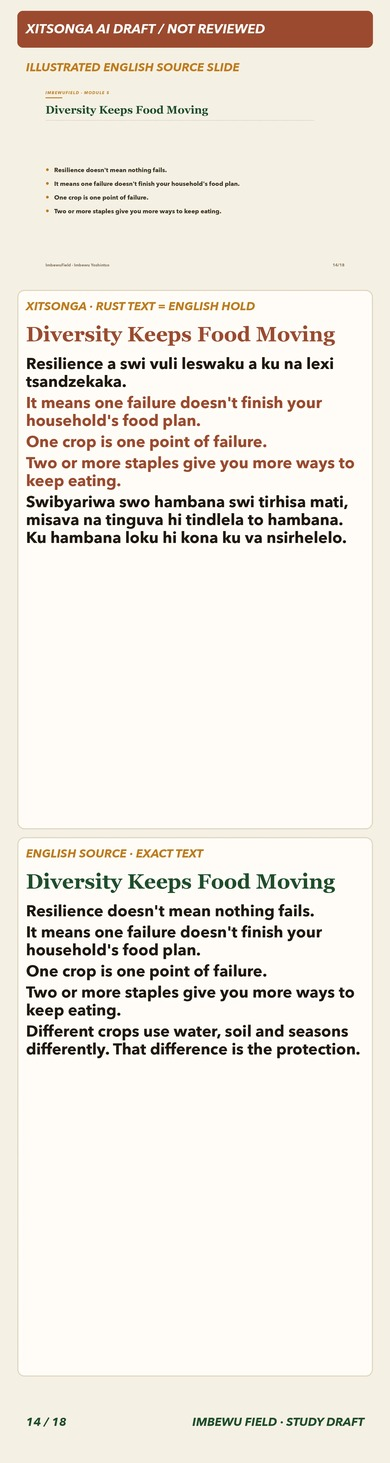
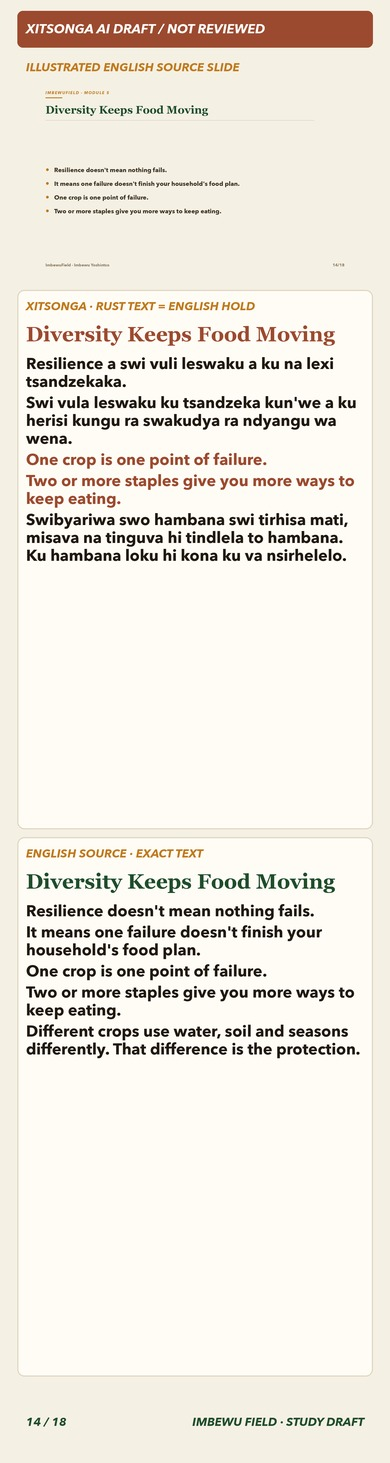
Pair regional Study resilience, water and seed-sharing drafts

Changed region(s): [[0.0615, 0.2461, 0.9231, 0.3999], [0.8615, 0.2461, 0.8923, 0.2768]]

diff --git a/lib/course-translation-drafts-ve-water-harvesting.ts b/lib/course-translation-drafts-ve-water-harvesting.ts
@@ -152,8 +152,8 @@ export const TSHIVENDA_WATER_HARVESTING_DRAFT: TshivendaCourseModuleDraft = {
       },
       body: {
         sourceEnglish: "A dam or pond can store runoff, but the amount available depends on local rain, the catchment, losses and how much water you use.\n\nRainfall seasons differ across South Africa. Use local records and plan for dry periods; a full dam is not guaranteed.\n\nBefore changing a watercourse or building storage works, check the required authorisation with the water authority.\n\nA dam needs a site investigation and a design by a suitably qualified person. Catchment runoff, soil, foundations, downstream risk and a safe spillway all matter.\n\nDo not assume that annual rainfall tells you the size of a flood or the storage you will have.\n\nAn uncontrolled overflow can erode and breach the wall. Plan a safe route for excess water before construction.\n\nWater can be lost through evaporation and seepage. Check the water level and look for leaks or erosion.\n\nKeep the spillway clear and maintain the bank cover specified in the design. Do not plant trees on an earth dam wall.\n\nAnimals can damage banks and add manure to the water. Their presence does not make the water clean or safe.",
-        tshivendaDraft: "A dam or pond can store runoff, but the amount available depends on local rain, the catchment, losses and how much water you use.\n\nRainfall seasons differ across South Africa. Use local records and plan for dry periods; a full dam is not guaranteed.\n\nBefore changing a watercourse or building storage works, check the required authorisation with the water authority.\n\nA dam needs a site investigation and a design by a suitably qualified person. Catchment runoff, soil, foundations, downstream risk and a safe spillway all matter.\n\nDo not assume that annual rainfall tells you the size of a flood or the storage you will have.\n\nAn uncontrolled overflow can erode and breach the wall. Plan a safe route for excess water before construction.\n\nWater can be lost through evaporation and seepage. Check the water level and look for leaks or erosion.\n\nKeep the spillway clear and maintain the bank cover specified in the design. Do not plant trees on an earth dam wall.\n\nAnimals can damage banks and add manure to the water. Their presence does not make the water clean or safe.",
-        reviewStatus: "hold"
+        tshivendaDraft: "A dam or pond can store runoff, but the amount available depends on local rain, the catchment, losses and how much water you use.\n\nTshifhinga tsha mvula tshi a fhambana u mona na Afurika Tshipembe. Use local records and plan for dry periods; a full dam is not guaranteed.\n\nBefore changing a watercourse or building storage works, check the required authorisation with the water authority.\n\nA dam needs a site investigation and a design by a suitably qualified person. Catchment runoff, soil, foundations, downstream risk and a safe spillway all matter.\n\nDo not assume that annual rainfall tells you the size of a flood or the storage you will have.\n\nAn uncontrolled overflow can erode and breach the wall. Plan a safe route for excess water before construction.\n\nWater can be lost through evaporation and seepage. Check the water level and look for leaks or erosion.\n\nKeep the spillway clear and maintain the bank cover specified in the design. Do not plant trees on an earth dam wall.\n\nAnimals can damage banks and add manure to the water. Their presence does not make the water clean or safe.",
+        reviewStatus: "machine-draft"
       },
       keyPoints: [
         {
@@ -264,8 +264,8 @@ export const TSHIVENDA_WATER_HARVESTING_DRAFT: TshivendaCourseModuleDraft = {
       },
       body: {
         sourceEnglish: "Your roof can collect rainwater. The amount depends on roof area, rainfall and losses.\n\nCheck whether the roof material is suitable for rainwater collection before connecting a tank.\n\nUse the roof area seen from above and local rainfall records. Then allow for water that misses the gutter, is diverted or overflows a full tank.\n\nAn annual total does not tell you how much water will be available during a dry spell. Compare supply with the uses you plan.\n\nRoof runoff can carry dust, droppings and other contamination. A first-flush diverter keeps some of the first runoff out of the tank.\n\nThe required diversion depends on the roof and system. Use the supplier's sizing and maintenance instructions; there is no single volume for every roof.\n\nA diverter does not make the remaining water safe to drink.\n\nTank size depends on water demand, rain, roof area and the length of dry periods.\n\nList the intended uses and estimate their demand from your own records. Compare that with supply through the seasons.\n\nPlan what you will do when stored water runs low. A province name alone cannot tell you the tank size you need.\n\nKeep the tank covered, screen openings against insects, and maintain the roof, gutters and diverter. Keep rainwater separate from drinking-water pipes.\n\nWater that looks clear may still contain germs or chemicals. Ask the local health authority about testing and treatment suited to the intended use.\n\nA basic filter alone is not a drinking-water guarantee. Water used on food crops also needs a safety assessment.",
-        tshivendaDraft: "Your roof can collect rainwater. The amount depends on roof area, rainfall and losses.\n\nCheck whether the roof material is suitable for rainwater collection before connecting a tank.\n\nUse the roof area seen from above and local rainfall records. Then allow for water that misses the gutter, is diverted or overflows a full tank.\n\nAn annual total does not tell you how much water will be available during a dry spell. Compare supply with the uses you plan.\n\nRoof runoff can carry dust, droppings and other contamination. A first-flush diverter keeps some of the first runoff out of the tank.\n\nThe required diversion depends on the roof and system. Use the supplier's sizing and maintenance instructions; there is no single volume for every roof.\n\nA diverter does not make the remaining water safe to drink.\n\nTank size depends on water demand, rain, roof area and the length of dry periods.\n\nList the intended uses and estimate their demand from your own records. Compare that with supply through the seasons.\n\nPlan what you will do when stored water runs low. A province name alone cannot tell you the tank size you need.\n\nKeep the tank covered, screen openings against insects, and maintain the roof, gutters and diverter. Keep rainwater separate from drinking-water pipes.\n\nWater that looks clear may still contain germs or chemicals. Ask the local health authority about testing and treatment suited to the intended use.\n\nA basic filter alone is not a drinking-water guarantee. Water used on food crops also needs a safety assessment.",
-        reviewStatus: "hold"
+        tshivendaDraft: "Ṱhanga ya ṋu i nga kuvhanganya madi a mvula. Madi ane a wanala a bva kha vhuhulwane ha ṱhanga, mvula na madi a xelaho.\n\nCheck whether the roof material is suitable for rainwater collection before connecting a tank.\n\nUse the roof area seen from above and local rainfall records. Then allow for water that misses the gutter, is diverted or overflows a full tank.\n\nTshivhalo tsha ṅwaha woṱhe a tshi ni vhudzi uri hu ḓo vha na madi mangana nga tshifhinga tsha gomelelo. Compare supply with the uses you plan.\n\nRoof runoff can carry dust, droppings and other contamination. A first-flush diverter keeps some of the first runoff out of the tank.\n\nThe required diversion depends on the roof and system. Use the supplier's sizing and maintenance instructions; there is no single volume for every roof.\n\nA diverter does not make the remaining water safe to drink.\n\nTank size depends on water demand, rain, roof area and the length of dry periods.\n\nList the intended uses and estimate their demand from your own records. Compare that with supply through the seasons.\n\nPlan what you will do when stored water runs low. A province name alone cannot tell you the tank size you need.\n\nKeep the tank covered, screen openings against insects, and maintain the roof, gutters and diverter. Keep rainwater separate from drinking-water pipes.\n\nWater that looks clear may still contain germs or chemicals. Ask the local health authority about testing and treatment suited to the intended use.\n\nA basic filter alone is not a drinking-water guarantee. Water used on food crops also needs a safety assessment.",
+        reviewStatus: "machine-draft"
       },
       keyPoints: [
         {

diff --git a/tests/course-translation-drafts-ve-water-harvesting.test.ts b/tests/course-translation-drafts-ve-water-harvesting.test.ts
@@ -53,8 +53,27 @@ test('Water Harvesting Tshivenda draft keeps safety guidance exact and answer ma
     if (titles[original.id]) assert.equal(lesson.title.tshivendaDraft, titles[original.id]);
     else assert.equal(lesson.title.reviewStatus, 'hold', 'greywater reuse title stays English');
     checkPair(lesson.body, original.body, `${path}.body`);
-    assert.equal(lesson.body.reviewStatus, 'hold', `${path}: engineering, water quality and sanitation guidance stays English`);
-    assert.deepEqual(lesson.body.tshivendaDraft.split('\n\n'), original.body.split('\n\n'), `${path}: retain paragraph boundaries`);
+    const bodySentences: Record<string, string> = lesson.id === 'water-harvesting-l2'
+      ? {
+          'Rainfall seasons differ across South Africa.': 'Tshifhinga tsha mvula tshi a fhambana u mona na Afurika Tshipembe.',
+        }
+      : lesson.id === 'water-harvesting-l3'
+        ? {
+            'Your roof can collect rainwater. The amount depends on roof area, rainfall and losses.': 'Ṱhanga ya ṋu i nga kuvhanganya madi a mvula. Madi ane a wanala a bva kha vhuhulwane ha ṱhanga, mvula na madi a xelaho.',
+            'An annual total does not tell you how much water will be available during a dry spell.': 'Tshivhalo tsha ṅwaha woṱhe a tshi ni vhudzi uri hu ḓo vha na madi mangana nga tshifhinga tsha gomelelo.',
+          }
+        : {};
+    let expectedBody = original.body;
+    for (const [english, tshivenda] of Object.entries(bodySentences)) {
+      assert.equal(original.body.split(english).length - 1, 1, `${path}.body: selected sentence occurs once in the source`);
+      expectedBody = expectedBody.replace(english, tshivenda);
+    }
+    assert.equal(lesson.body.reviewStatus, Object.keys(bodySentences).length ? 'machine-draft' : 'hold',
+      `${path}: only screened concept sentences are translated`);
+    assert.equal(lesson.body.tshivendaDraft, expectedBody,
+      `${path}: retain exact source English outside the selected sentences`);
+    assert.equal(lesson.body.tshivendaDraft.split('\n\n').length, original.body.split('\n\n').length,
+      `${path}: retain paragraph boundaries`);
     assert.equal(lesson.keyPoints.length, original.keyPoints.length);
     for (const [j, point] of lesson.keyPoints.entries()) {
       checkPair(point, original.keyPoints[j], `${path}.keyPoints[${j}]`);
@@ -74,13 +93,14 @@ test('Water Harvesting Tshivenda draft keeps safety guidance exact and answer ma
   }
 
   const held = [draft.description, ...draft.lessons.flatMap(l => [l.body, ...l.keyPoints, ...l.quiz.flatMap(q => [q.question, ...q.options, q.rationale])])]
-    .filter(p => p.reviewStatus === 'hold').map(p => p.sourceEnglish).join('\n');
+    .filter(p => p.reviewStatus === 'hold' || p.sourceEnglish !== p.tshivendaDraft)
+    .map(p => `${p.sourceEnglish}\n${p.tshivendaDraft}`).join('\n');
   for (const criticalClaim of ['safe overflow', 'earth dam wall', 'first-flush diverter', 'not make the remaining water safe to drink', 'qualified local sanitation adviser', 'soil and mulch do not disinfect']) {
     assert.ok(held.toLowerCase().includes(criticalClaim.toLowerCase()), `critical claim stays held in English: ${criticalClaim}`);
   }
 });
 
-test('Tshivenda Water Harvesting keeps lesson instruction English and shows its source-paired slide draft', () => {
+test('Tshivenda Water Harvesting keeps technical lesson instructions English and shows source-paired concept drafts', () => {
   const source = COURSE_MODULES.find(module => module.id === TSHIVENDA_WATER_HARVESTING_DRAFT.id);
   assert.ok(source, 'the canonical Water Harvesting module must exist');
   const modulePresentation = resolveCourseModulePresentation(source, 've');
@@ -97,7 +117,8 @@ test('Tshivenda Water Harvesting keeps lesson instruction English and shows its 
       `${lesson.id}: report a draft only while at least one source-paired field is translated`);
     assert.equal(presentation.content.title, draft.title.reviewStatus === 'hold'
       ? lesson.title : draft.title.tshivendaDraft, `${lesson.id}: only explicitly drafted titles change`);
-    assert.equal(presentation.content.body, lesson.body, `${lesson.id}: safety instruction remains English`);
+    assert.equal(presentation.content.body, draft.body.tshivendaDraft,
+      `${lesson.id}: show only exact-source-paired body wording, with technical instructions retained`);
     assert.deepEqual(presentation.content.keyPoints, lesson.keyPoints, `${lesson.id}: safety summary remains English`);
     assert.deepEqual(presentation.content.quiz, lesson.quiz, `${lesson.id}: water-safety quiz remains English`);
     assert.equal(draft.title.sourceEnglish, lesson.title, `${lesson.id}: title is paired to exact English source`);

diff --git a/lib/course-translation-drafts-st-vegetables-staples.ts b/lib/course-translation-drafts-st-vegetables-staples.ts
@@ -258,8 +258,8 @@ export const SESOTHO_VEGETABLES_STAPLES_DRAFT: SesothoCourseModuleDraft = {
       },
       "body": {
         "sourceEnglish": "A staple earns its place because it feeds the household beyond the day of harvest.\n\nIt carries energy or protein. It stores, or it stays in the ground until you need it. And often it carries cultural memory too.\n\nOne staple leaves you vulnerable. Two or more give you options when weather or pests hit.\n\nGrow at least two. Not one.\n\nWhich staple does your household rely on most heavily right now? That's the one whose failure would hurt most — so that's the one that needs a companion.\n\nEach staple protects you against something different.\n\nMaize gives calories, and stores dry. Open-pollinated maize also lets you save your own seed, if you manage isolation and selection.\n\nBeans and cowpeas give a storable protein harvest.\n\nSweet potato develops some drought tolerance after its storage roots form. It needs water in the first weeks and while roots are forming; water stress then can reduce the harvest. Its young leaves are edible too.\n\nAmadumbe handles wetter ground, where other staples struggle.\n\nNotice that they fail in different conditions. That's the whole point.\n\nResilience doesn't mean nothing fails.\n\nIt means one failure doesn't finish your household's food plan.\n\nOne crop is one point of failure.\n\nTwo or more staples give you more ways to keep eating.\n\nDifferent crops use water, soil and seasons differently. That difference is the protection.",
-        "sesothoDraft": "A staple earns its place because it feeds the household beyond the day of harvest.\n\nIt carries energy or protein. It stores, or it stays in the ground until you need it. And often it carries cultural memory too.\n\nOne staple leaves you vulnerable. Two or more give you options when weather or pests hit.\n\nGrow at least two. Not one.\n\nWhich staple does your household rely on most heavily right now? That's the one whose failure would hurt most — so that's the one that needs a companion.\n\nEach staple protects you against something different.\n\nMaize gives calories, and stores dry. Open-pollinated maize also lets you save your own seed, if you manage isolation and selection.\n\nBeans and cowpeas give a storable protein harvest.\n\nSweet potato develops some drought tolerance after its storage roots form. It needs water in the first weeks and while roots are forming; water stress then can reduce the harvest. Its young leaves are edible too.\n\nAmadumbe handles wetter ground, where other staples struggle.\n\nNotice that they fail in different conditions. That's the whole point.\n\nResilience doesn't mean nothing fails.\n\nIt means one failure doesn't finish your household's food plan.\n\nOne crop is one point of failure.\n\nTwo or more staples give you more ways to keep eating.\n\nDifferent crops use water, soil and seasons differently. That difference is the protection.",
-        "reviewStatus": "hold"
+        "sesothoDraft": "A staple earns its place because it feeds the household beyond the day of harvest.\n\nIt carries energy or protein. It stores, or it stays in the ground until you need it. And often it carries cultural memory too.\n\nOne staple leaves you vulnerable. Two or more give you options when weather or pests hit.\n\nGrow at least two. Not one.\n\nWhich staple does your household rely on most heavily right now? That's the one whose failure would hurt most — so that's the one that needs a companion.\n\nEach staple protects you against something different.\n\nMaize gives calories, and stores dry. Open-pollinated maize also lets you save your own seed, if you manage isolation and selection.\n\nBeans and cowpeas give a storable protein harvest.\n\nSweet potato develops some drought tolerance after its storage roots form. It needs water in the first weeks and while roots are forming; water stress then can reduce the harvest. Its young leaves are edible too.\n\nAmadumbe handles wetter ground, where other staples struggle.\n\nNotice that they fail in different conditions. That's the whole point.\n\nHo mamella maemo a thata ha ho bolele hore ha ho letho le hlolehang.\n\nIt means one failure doesn't finish your household's food plan.\n\nOne crop is one point of failure.\n\nTwo or more staples give you more ways to keep eating.\n\nDifferent crops use water, soil and seasons differently. That difference is the protection.",
+        "reviewStatus": "machine-draft"
       },
       "keyPoints": [
         {

diff --git a/tests/paired-draft-slides.test.ts b/tests/paired-draft-slides.test.ts
@@ -7,6 +7,7 @@ import { join } from 'node:path';
 import { englishSlideRecords, pairedDraftLanguageLabel, pairedTargetHasEnglishHolds, validatePairedDraft } from '../scripts/paired-draft-slides.mjs';
 import { SESOTHO_FOOD_FOREST_DRAFT } from '../lib/course-translation-drafts-st-food-forest.ts';
 import { TSHIVENDA_FOOD_FOREST_DRAFT } from '../lib/course-translation-drafts-ve-food-forest.ts';
+import { SESOTHO_VEGETABLES_STAPLES_DRAFT } from '../lib/course-translation-drafts-st-vegetables-staples.ts';
 import { XITSONGA_VEGETABLES_STAPLES_DRAFT } from '../lib/course-translation-drafts-ts-vegetables-staples.ts';
 import { SESOTHO_MARKET_COMMUNITY_DRAFT } from '../lib/course-translation-drafts-st-market-community.ts';
 import { XITSONGA_MARKET_COMMUNITY_DRAFT } from '../lib/course-translation-drafts-ts-market-community.ts';
@@ -351,25 +352,32 @@ test('Tshivenda Food Forest drafts pair habitat context while field care and gra
     'the healthy-grassland protection instruction cannot silently become an unreviewed draft');
 });
 
-test('Vegetables slides pair Xitsonga harvest-gap and resilience drafts with exact English', () => {
+test('Vegetables slide 14 pairs both regional resilience drafts while keeping the one-crop limit exact', () => {
   const source = englishSlideRecords(readFileSync('docs/narration/vegetables-staples.en.md', 'utf8'));
+  const sesothoPacket = JSON.parse(readFileSync('docs/narration/vegetables-staples.st.paired-draft.json', 'utf8'));
+  const sesothoSlides = validatePairedDraft(sesothoPacket, source, 'st');
+  const sesothoLesson = SESOTHO_VEGETABLES_STAPLES_DRAFT.lessons[2].body;
+  const sesothoEnglish = sesothoLesson.sourceEnglish.split('\n\n');
+  const sesothoDraft = sesothoLesson.sesothoDraft.split('\n\n');
+  assert.equal(sesothoSlides[13].target.body[0].status, 'draft');
+  assert.equal(sesothoSlides[13].english.body[0], sesothoEnglish[11]);
+  assert.equal(sesothoSlides[13].target.body[0].text, sesothoDraft[11]);
+
   const packet = JSON.parse(readFileSync('docs/narration/vegetables-staples.ts.paired-draft.json', 'utf8'));
   const slides = validatePairedDraft(packet, source, 'ts');
   const drafted = slides.flatMap((slide: any) => slide.target.body
     .map((part: any, index: number) => part.status === 'draft' ? `${slide.n}:${index + 1}` : null)
     .filter(Boolean));
-  assert.deepEqual(drafted, ['2:3', '2:5', '13:6', '14:1', '14:5']);
+  assert.deepEqual(drafted, ['2:3', '2:5', '13:6', '14:1', '14:2', '14:5']);
   const lesson = XITSONGA_VEGETABLES_STAPLES_DRAFT.lessons[0].body;
   const english = lesson.sourceEnglish.split('\n\n');
   const translated = lesson.xitsongaDraft.split('\n\n');
-  for (const [slideIndex, slideParagraph, lessonParagraph] of [[12, 5, 10], [13, 0, 11], [13, 4, 15]]) {
+  for (const [slideIndex, slideParagraph, lessonParagraph] of [[12, 5, 10], [13, 0, 11], [13, 1, 12], [13, 4, 15]]) {
     assert.equal(slides[slideIndex].english.body[slideParagraph], english[lessonParagraph]);
     assert.equal(slides[slideIndex].target.body[slideParagraph].text, translated[lessonParagraph]);
   }
-  assert.equal(slides[13].target.body[1].status, 'english-hold',
-    'the one-failure limit stays exact English in the deck as well as the lesson');
-  assert.equal(translated[12], english[12], 'the one-failure limit stays exact English in the lesson');
-  assert.equal(slides[13].target.body[2].status, 'english-hold');
+  assert.equal(slides[13].target.body[2].status, 'english-hold',
+    'the one-crop point-of-failure claim remains exact English in this slide packet');
   assert.equal(slides[13].target.body[3].status, 'english-hold');
   assert.equal(slides[1].target.body[1].status, 'english-hold',
     'the Xitsonga glut wording still needs fluent review');

diff --git a/lib/course-translation-drafts-ts-seeds-sovereignty.ts b/lib/course-translation-drafts-ts-seeds-sovereignty.ts
@@ -258,8 +258,8 @@ export const XITSONGA_SEEDS_SOVEREIGNTY_DRAFT: XitsongaCourseModuleDraft = {
       },
       "body": {
         "sourceEnglish": "Dry seed properly before storing it: paper envelopes, not plastic, in a shaded, airy spot — never direct sun or sealed heat. The three enemies of seed viability are heat, light, and moisture. Storage life varies by crop and conditions, so test germination before relying on saved seed.\n\nLabel every envelope with crop, variety, and date saved. Keep thoroughly dry seed in a sealed container in a cool, dark, dry place. Sealing damp seed can trap moisture and damage it.\n\nBefore a new planting season, test a small batch for germination so you're not relying on seed that's quietly lost its viability.\n\nOrganise a seed swap with neighbours this season. What one household saves well, several households can share — and the whole group's variety diversity grows with every swap.",
-        "xitsongaDraft": "Dry seed properly before storing it: paper envelopes, not plastic, in a shaded, airy spot — never direct sun or sealed heat. The three enemies of seed viability are heat, light, and moisture. Storage life varies by crop and conditions, so test germination before relying on saved seed.\n\nLabel every envelope with crop, variety, and date saved. Keep thoroughly dry seed in a sealed container in a cool, dark, dry place. Sealing damp seed can trap moisture and damage it.\n\nBefore a new planting season, test a small batch for germination so you're not relying on seed that's quietly lost its viability.\n\nOrganise a seed swap with neighbours this season. What one household saves well, several households can share — and the whole group's variety diversity grows with every swap.",
-        "reviewStatus": "hold"
+        "xitsongaDraft": "Dry seed properly before storing it: paper envelopes, not plastic, in a shaded, airy spot — never direct sun or sealed heat. The three enemies of seed viability are heat, light, and moisture. Storage life varies by crop and conditions, so test germination before relying on saved seed.\n\nLabel every envelope with crop, variety, and date saved. Keep thoroughly dry seed in a sealed container in a cool, dark, dry place. Sealing damp seed can trap moisture and damage it.\n\nBefore a new planting season, test a small batch for germination so you're not relying on seed that's quietly lost its viability.\n\nLulamisa ku cincana mbewu ni vaakelani va wena eka nguva leyi. What one household saves well, several households can share — and the whole group's variety diversity grows with every swap.",
+        "reviewStatus": "machine-draft"
       },
       "keyPoints": [
         {
@@ -366,8 +366,8 @@ export const XITSONGA_SEEDS_SOVEREIGNTY_DRAFT: XitsongaCourseModuleDraft = {
     },
     {
       "lessonId": "seeds-sovereignty-l3",
-      "field": "title, body, keyPoints, quiz and infographicAlt",
-      "sourceText": "The English source is retained in each paired field.",
+      "field": "title, body seed-storage and germination guidance, keyPoints, quiz and infographicAlt",
+      "sourceText": "Storage and germination guidance stays exact English in the source-paired body; the seed-swap invitation is an unreviewed draft.",
       "reason": "Storage and germination instructions need a complete local-language review before drafting them."
     }
   ]

diff --git a/tests/course-translation-drafts-ts-vegetables-staples.test.ts b/tests/course-translation-drafts-ts-vegetables-staples.test.ts
@@ -9,7 +9,7 @@ const sourceLesson = sourceModule.lessons.find(lesson => lesson.id === 'vegetabl
 const selectedDraftParagraphs = [
   'Xiya leswaku swibyariwa leswi swi tsandzeka eka swiyimo swo hambana. Hi yona mhaka ya kona.',
   'Resilience a swi vuli leswaku a ku na lexi tsandzekaka.',
-  "It means one failure doesn't finish your household's food plan.",
+  "Swi vula leswaku ku tsandzeka kun'we a ku herisi kungu ra swakudya ra ndyangu wa wena.",
   'Xibyariwa xin\'we i "point of failure" yin\'we.',
   'Two or more staples give you more ways to keep eating.',
   'Swibyariwa swo hambana swi tirhisa mati, misava na tinguva hi tindlela to hambana. Ku hambana loku hi kona ku va nsirhelelo.',
@@ -23,7 +23,7 @@ const selectedEnglishParagraphs = [
   'Different crops use water, soil and seasons differently. That difference is the protection.',
 ];
 
-test('Vegetables & Staple Crops L3 holds the one-failure and staple-count claims when draft scope is uncertain', () => {
+test('Vegetables & Staple Crops L3 pairs the one-failure concept and holds the staple-count claim', () => {
   const draft = XITSONGA_VEGETABLES_STAPLES_DRAFT.lessons[0];
   assert.equal(XITSONGA_VEGETABLES_STAPLES_DRAFT.id, sourceModule.id);
   assert.equal(XITSONGA_VEGETABLES_STAPLES_DRAFT.language, 'ts');
@@ -40,7 +40,7 @@ test('Vegetables & Staple Crops L3 holds the one-failure and staple-count claims
   assert.deepEqual(localizedParagraphs.slice(0, 10), sourceParagraphs.slice(0, 10),
     'species-specific crop claims and farming instructions stay exact English');
   assert.deepEqual(localizedParagraphs.slice(10), selectedDraftParagraphs);
-  assert.equal(localizedParagraphs[12], sourceParagraphs[12], 'the one-failure limit remains exact English');
+  assert.equal(localizedParagraphs[12], selectedDraftParagraphs[2], 'the one-failure sentence keeps its full household food-plan scope');
   assert.equal(localizedParagraphs[14], sourceParagraphs[14], 'the full staple-count sentence remains exact English');
 
   assert.equal(draft.title.sourceEnglish, sourceLesson.title);
@@ -85,10 +85,10 @@ test('Vegetables & Staple Crops L3 source drift and undrafted lesson sources fal
   }
 });
 
-test('Vegetables & Staple Crops L3 preserves negation while holding the full one-failure and staple-count claims', () => {
+test('Vegetables & Staple Crops L3 preserves the one-failure scope while holding the staple-count claim', () => {
   const paragraphs = XITSONGA_VEGETABLES_STAPLES_DRAFT.lessons[0].body.xitsongaDraft.split('\n\n');
   assert.match(paragraphs[11], /Resilience a swi vuli leswaku a ku na lexi tsandzekaka/);
-  assert.equal(paragraphs[12], sourceLesson.body.split('\n\n')[12]);
+  assert.match(paragraphs[12], /ku tsandzeka kun'we a ku herisi kungu ra swakudya ra ndyangu wa wena/);
   assert.match(paragraphs[13], /point of failure/);
   assert.equal(paragraphs[14], sourceLesson.body.split('\n\n')[14]);
   assert.match(paragraphs[14], /^Two or more staples give you more ways to keep eating\.$/);

diff --git a/lib/course-translation-drafts-st-seeds-sovereignty.ts b/lib/course-translation-drafts-st-seeds-sovereignty.ts
@@ -258,8 +258,8 @@ export const SESOTHO_SEEDS_SOVEREIGNTY_DRAFT: SesothoCourseModuleDraft = {
       },
       "body": {
         "sourceEnglish": "Dry seed properly before storing it: paper envelopes, not plastic, in a shaded, airy spot — never direct sun or sealed heat. The three enemies of seed viability are heat, light, and moisture. Storage life varies by crop and conditions, so test germination before relying on saved seed.\n\nLabel every envelope with crop, variety, and date saved. Keep thoroughly dry seed in a sealed container in a cool, dark, dry place. Sealing damp seed can trap moisture and damage it.\n\nBefore a new planting season, test a small batch for germination so you're not relying on seed that's quietly lost its viability.\n\nOrganise a seed swap with neighbours this season. What one household saves well, several households can share — and the whole group's variety diversity grows with every swap.",
-        "sesothoDraft": "Dry seed properly before storing it: paper envelopes, not plastic, in a shaded, airy spot — never direct sun or sealed heat. The three enemies of seed viability are heat, light, and moisture. Storage life varies by crop and conditions, so test germination before relying on saved seed.\n\nLabel every envelope with crop, variety, and date saved. Keep thoroughly dry seed in a sealed container in a cool, dark, dry place. Sealing damp seed can trap moisture and damage it.\n\nBefore a new planting season, test a small batch for germination so you're not relying on seed that's quietly lost its viability.\n\nOrganise a seed swap with neighbours this season. What one household saves well, several households can share — and the whole group's variety diversity grows with every swap.",
-        "reviewStatus": "hold"
+        "sesothoDraft": "Dry seed properly before storing it: paper envelopes, not plastic, in a shaded, airy spot — never direct sun or sealed heat. The three enemies of seed viability are heat, light, and moisture. Storage life varies by crop and conditions, so test germination before relying on saved seed.\n\nLabel every envelope with crop, variety, and date saved. Keep thoroughly dry seed in a sealed container in a cool, dark, dry place. Sealing damp seed can trap moisture and damage it.\n\nBefore a new planting season, test a small batch for germination so you're not relying on seed that's quietly lost its viability.\n\nLokisetsa phapanyetsano ea peo le baahisani sehleng sena. What one household saves well, several households can share — and the whole group's variety diversity grows with every swap.",
+        "reviewStatus": "machine-draft"
       },
       "keyPoints": [
         {

diff --git a/tests/sesotho-seeds-sovereignty-study-wiring.test.ts b/tests/sesotho-seeds-sovereignty-study-wiring.test.ts
@@ -10,6 +10,23 @@ import { XITSONGA_SEEDS_SOVEREIGNTY_DRAFT } from '../lib/course-translation-draf
 
 const STUDENT_PAGE = readFileSync(new URL('../app/student/page.tsx', import.meta.url), 'utf8');
 
+test('seed-swap invitation drafts leave all storage and germination instructions in exact English', () => {
+  const sourceLesson = COURSE_MODULES.find(module => module.id === 'seeds-sovereignty')!.lessons.find(lesson => lesson.id === 'seeds-sovereignty-l3')!;
+  for (const [language, draftText] of [
+    ['st', SESOTHO_SEEDS_SOVEREIGNTY_DRAFT.lessons.find(lesson => lesson.id === sourceLesson.id)!.body.sesothoDraft],
+    ['ts', XITSONGA_SEEDS_SOVEREIGNTY_DRAFT.lessons.find(lesson => lesson.id === sourceLesson.id)!.body.xitsongaDraft],
+  ] as const) {
+    const source = sourceLesson.body.split('\n\n');
+    const draft = draftText.split('\n\n');
+    assert.equal(draft.length, source.length);
+    assert.deepEqual(draft.slice(0, 3), source.slice(0, 3), `${language}: seed storage guidance stays exact English`);
+    assert.ok(draft[3].endsWith("What one household saves well, several households can share — and the whole group's variety diversity grows with every swap."),
+      `${language}: the adjacent seed-diversity claim stays exact English`);
+    assert.equal(resolveLearnerLessonPresentation(sourceLesson, language).content.body, draftText,
+      `${language}: the selected sentence is visible to learners as an unreviewed draft`);
+  }
+});
+
 test('Sesotho Seeds learner prose is paired, visibly unreviewed, and source changes withdraw it', () => {
   const draft = SESOTHO_SEEDS_SOVEREIGNTY_DRAFT;
   const module = COURSE_MODULES.find(candidate => candidate.id === draft.id);

diff --git a/tests/course-translation-drafts-st-vegetables-staples.test.ts b/tests/course-translation-drafts-st-vegetables-staples.test.ts
@@ -69,7 +69,6 @@ test('Vegetables and Staple Crops Sesotho draft keeps exact sources, agronomic f
   assert.deepEqual(holds, [
     'lessons[0] vegetables-staples-l1.quiz[1].options[1]',
     'lessons[1] vegetables-staples-l2.quiz[0].question',
-    'lessons[2] vegetables-staples-l3.body',
     'lessons[2] vegetables-staples-l3.keyPoints[2]',
     'lessons[3] vegetables-staples-l4.infographicAlt',
     'lessons[3] vegetables-staples-l4.quiz[0].options[1]',
@@ -86,5 +85,13 @@ test('Vegetables and Staple Crops Sesotho draft keeps exact sources, agronomic f
   const pestDraft = draft.lessons[3].body.sesothoDraft.split('\n\n');
   for (const index of [0, 1, 2, 5, 8, 9, 10, 11]) {
     assert.equal(pestDraft[index], pestSource[index], `pest paragraph ${index + 1}: unreviewed treatment advice stays exact English`);
+  }
+  const staplesSource = source.lessons[2].body.split('\n\n');
+  const staplesDraft = draft.lessons[2].body.sesothoDraft.split('\n\n');
+  assert.equal(staplesDraft[11], 'Ho mamella maemo a thata ha ho bolele hore ha ho letho le hlolehang.',
+    'the draft retains the original negation about resilience');
+  for (const [index, paragraph] of staplesSource.entries()) {
+    if (index !== 11) assert.equal(staplesDraft[index], paragraph,
+      `staple paragraph ${index + 1}: technical, crop and household advice stays exact English`);
   }
 });

diff --git a/lib/course-asset-sizes.ts b/lib/course-asset-sizes.ts
@@ -1654,7 +1654,7 @@ export const COURSE_ASSET_SIZES: Readonly<Record<string, number>> = Object.freez
   '/course-decks/vegetables-staples/st/slide-11.webp': 411708,
   '/course-decks/vegetables-staples/st/slide-12.webp': 459716,
   '/course-decks/vegetables-staples/st/slide-13.webp': 443438,
-  '/course-decks/vegetables-staples/st/slide-14.webp': 253370,
+  '/course-decks/vegetables-staples/st/slide-14.webp': 257038,
   '/course-decks/vegetables-staples/st/slide-15.webp': 572096,
   '/course-decks/vegetables-staples/st/slide-16.webp': 555384,
   '/course-decks/vegetables-staples/st/slide-17.webp': 374644,
@@ -1672,7 +1672,7 @@ export const COURSE_ASSET_SIZES: Readonly<Record<string, number>> = Object.freez
   '/course-decks/vegetables-staples/ts/slide-11.webp': 412568,
   '/course-decks/vegetables-staples/ts/slide-12.webp': 460462,
   '/course-decks/vegetables-staples/ts/slide-13.webp': 446686,
-  '/course-decks/vegetables-staples/ts/slide-14.webp': 256414,
+  '/course-decks/vegetables-staples/ts/slide-14.webp': 258652,
   '/course-decks/vegetables-staples/ts/slide-15.webp': 572762,
   '/course-decks/vegetables-staples/ts/slide-16.webp': 556238,
   '/course-decks/vegetables-staples/ts/slide-17.webp': 373382,

diff --git a/lib/release-notes.ts b/lib/release-notes.ts
@@ -42,6 +42,13 @@ export interface UpdateTourStop {
 
 /** Shown newest-first under the Refresh button. The banner renders at most MAX_SHOWN lines total. */
 export const RELEASE_NOTES: ReleaseNote[] = [
+  { when: '30 September 2026', sha: '2713e4e0', changes: [
+    'Study adds a few more regional drafts about rain, seed sharing and crop resilience.',
+    'Uncertain water, seed and farming guidance stays in English beside the marked drafts.',
+  ], tour: [
+    { title: 'Compare the new Study lines', where: 'Study → Water Harvesting, Seeds and Vegetables', href: '/student',
+      detail: 'Choose Sesotho, Tshivenda or Xitsonga. Compare the unreviewed lines with exact English; regional decks open with No narration.' },
+  ] },
   { when: '30 September 2026', sha: 'd26f49a7', changes: [
     'Study adds regional drafts on selling surplus and plant layers.',
     'Uncertain prices, plant identity and care advice stay in English.',

diff --git a/lib/course-translation-drafts-ts-vegetables-staples.ts b/lib/course-translation-drafts-ts-vegetables-staples.ts
@@ -15,7 +15,7 @@ const sourceParagraphs = sourceLesson.body.split('\n\n');
 const draftParagraphs = [...sourceParagraphs];
 draftParagraphs[10] = 'Xiya leswaku swibyariwa leswi swi tsandzeka eka swiyimo swo hambana. Hi yona mhaka ya kona.';
 draftParagraphs[11] = 'Resilience a swi vuli leswaku a ku na lexi tsandzekaka.';
-draftParagraphs[12] = sourceParagraphs[12];
+draftParagraphs[12] = 'Swi vula leswaku ku tsandzeka kun\'we a ku herisi kungu ra swakudya ra ndyangu wa wena.';
 draftParagraphs[13] = 'Xibyariwa xin\'we i "point of failure" yin\'we.';
 // Keep the whole quantity-and-staples claim in English until its scope is reviewed.
 draftParagraphs[14] = sourceParagraphs[14];
